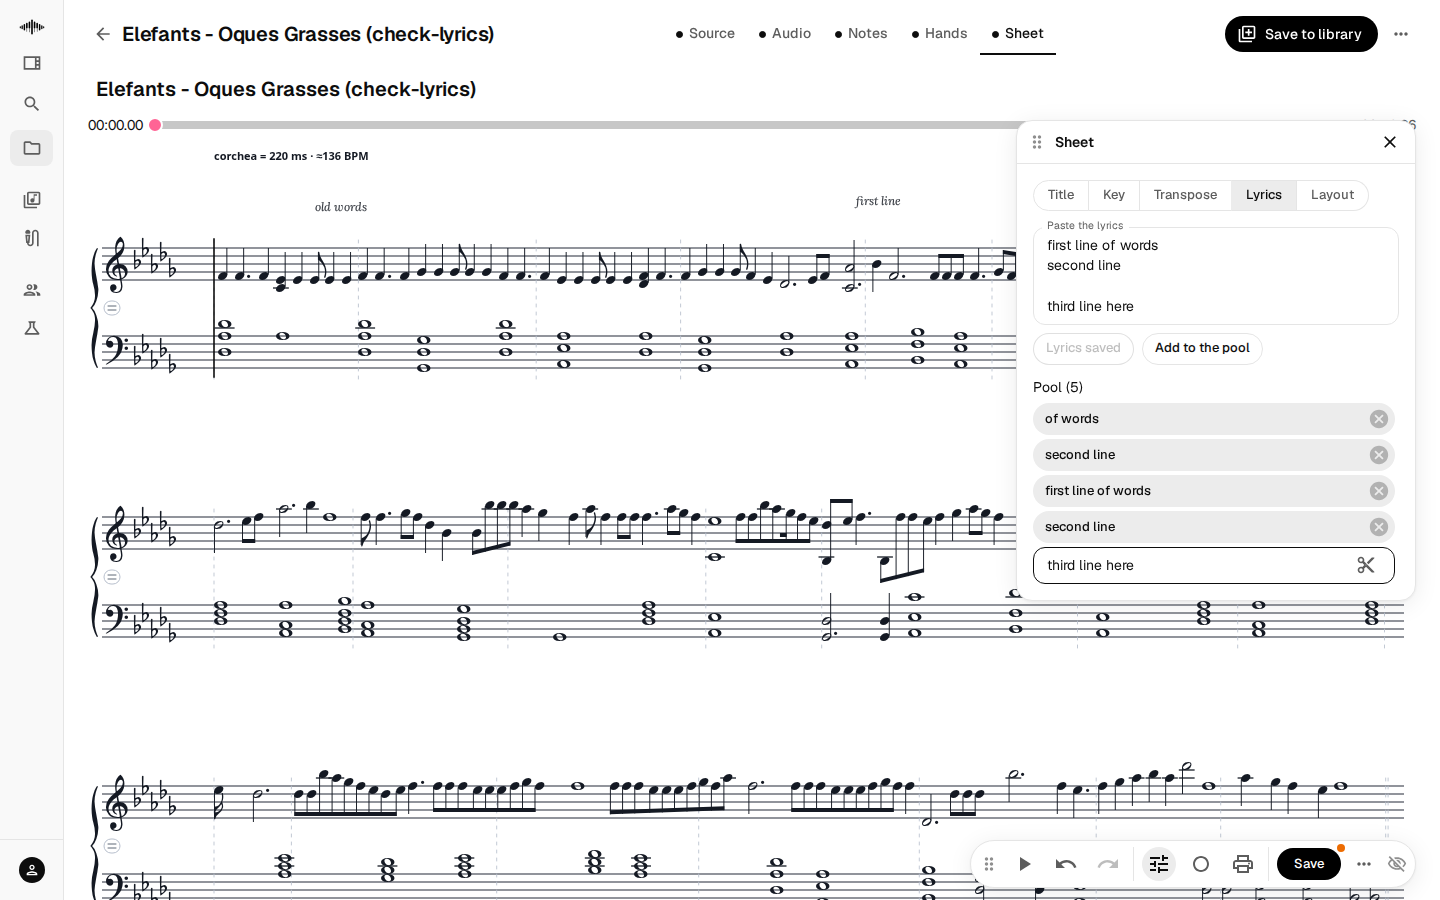
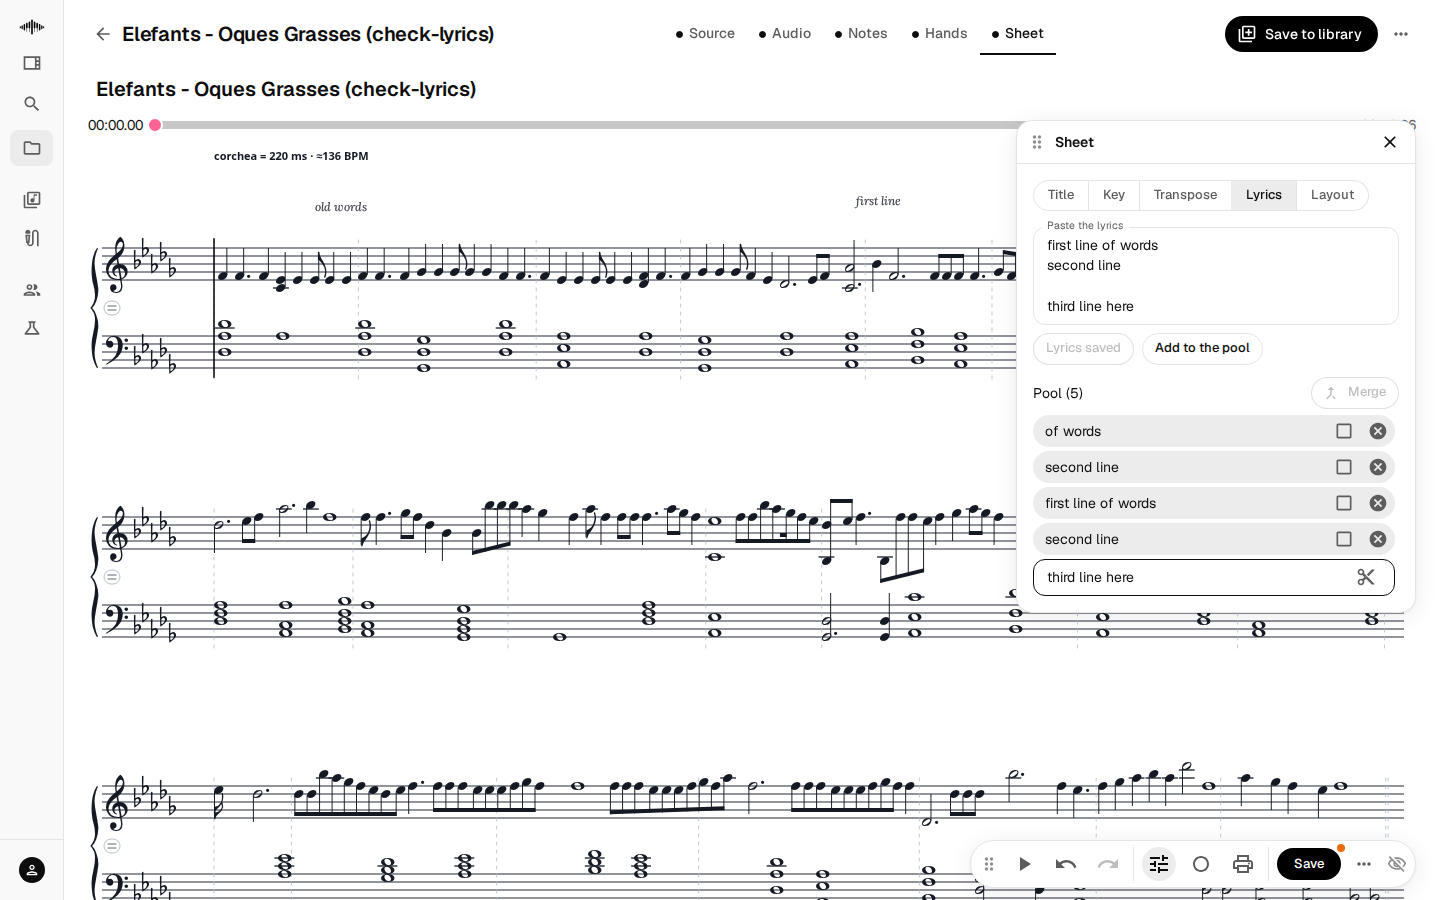
Implementation 02, Phase 7: a tick box per lyrics pool piece, consecutive picks only, Merge by the title
IconAction tooltips no longer catch the pointer, so one never covers the button beside it.

Changed region(s): [[0.7188, 0.4044, 0.9688, 0.6844]]

diff --git a/aitu-frontend/src/pages/piece/sheet/LyricsTab.tsx b/aitu-frontend/src/pages/piece/sheet/LyricsTab.tsx
@@ -1,8 +1,9 @@
 /**
  * The **Lyrics** tab of the sheet toolbox (plan section 11.5).
  *
- * Command-click (Control-click) picks pieces of the pool; **Merge** joins the picked ones, in pool
- * order, in the place of the first (the way back from a split made by mistake).
+ * The box beside a pool piece's cross picks it; only consecutive pieces can be picked, and
+ * **Merge**, beside the pool's title, joins them in the place of the first (the way back from a split
+ * made by mistake).
  * A piece of the pool is edited in place by clicking it: Enter (or the scissors at the end of the
  * field) splits it where the cursor is into two pieces in the same place and closes the field.
  *
@@ -17,12 +18,14 @@
 
 import { useRef, useState, type Dispatch, type SetStateAction } from "react";
 import Box from "@mui/material/Box";
-import Chip from "@mui/material/Chip";
 import InputAdornment from "@mui/material/InputAdornment";
 import Stack from "@mui/material/Stack";
 import TextField from "@mui/material/TextField";
 import Typography from "@mui/material/Typography";
 import ArchiveIcon from "@mui/icons-material/ArchiveOutlined";
+import CancelIcon from "@mui/icons-material/Cancel";
+import CheckBoxIcon from "@mui/icons-material/CheckBox";
+import CheckBoxOutlineBlankIcon from "@mui/icons-material/CheckBoxOutlineBlank";
 import CheckCircleIcon from "@mui/icons-material/CheckCircle";
 import CallMergeIcon from "@mui/icons-material/CallMergeOutlined";
 import ContentCutIcon from "@mui/icons-material/ContentCutOutlined";
@@ -101,13 +104,28 @@ export function LyricsTab({
     at: [],
   });
   const pickedInPool = poolPicked.forPool === pool ? poolPicked.at : [];
-  const togglePoolPick = (index: number) =>
+  /**
+   * The picked pieces are always one run of consecutive pieces, because only those can be merged:
+   * with nothing picked any piece can be; then only the piece just before or just after the run is
+   * added, and only an end of the run is let go.
+   */
+  const pickLow = pickedInPool.length > 0 ? Math.min(...pickedInPool) : -1;
+  const pickHigh = pickedInPool.length > 0 ? Math.max(...pickedInPool) : -1;
+  const canTogglePick = (index: number) =>
+    pickedInPool.length === 0 ||
+    index === pickLow ||
+    index === pickHigh ||
+    index === pickLow - 1 ||
+    index === pickHigh + 1;
+  const togglePoolPick = (index: number) => {
+    if (!canTogglePick(index)) return;
     setPoolPicked({
       forPool: pool,
       at: pickedInPool.includes(index)
         ? pickedInPool.filter((at) => at !== index)
         : [...pickedInPool, index],
     });
+  };
 
   /** Keep `text` as the piece's words: each line a piece of its own, in the same place. */
   const commitPoolEdit = (text = poolEdit?.text) => {
@@ -211,105 +229,91 @@ export function LyricsTab({
 
       {pool.length > 0 ? (
         <Box>
-          <Typography variant="body2" color="text.secondary" sx={{ mb: 0.75 }}>
-            Pool ({pool.length}
-            {placed.some(Boolean) ? `, ${placed.filter(Boolean).length} on the sheet` : ""})
-          </Typography>
-          {pickedInPool.length > 0 ? (
-            <Stack direction="row" spacing={1} sx={{ alignItems: "center", mb: 0.75 }}>
-              <PillButton
-                kind="primary"
-                size="small"
-                disabled={pickedInPool.length < 2}
-                startIcon={<CallMergeIcon fontSize="small" />}
-                onClick={() => setPool((current) => mergePoolPieces(current, pickedInPool))}
-                data-lyrics-pool-merge
-              >
-                {pickedInPool.length < 2 ? "Pick another to merge" : `Merge ${pickedInPool.length} pieces`}
-              </PillButton>
-              <PillButton
-                kind="quiet"
-                size="small"
-                onClick={() => setPoolPicked({ forPool: pool, at: [] })}
-              >
-                Cancel
-              </PillButton>
-            </Stack>
-          ) : null}
+          <Stack direction="row" spacing={1} sx={{ alignItems: "center", mb: 0.75, minHeight: 30 }}>
+            <Typography variant="body2" color="text.secondary" sx={{ flex: 1 }}>
+              Pool ({pool.length}
+              {placed.some(Boolean) ? `, ${placed.filter(Boolean).length} on the sheet` : ""})
+            </Typography>
+            {/* Joins the picked pieces; it needs two, next to each other. */}
+            <PillButton
+              kind={pickedInPool.length >= 2 ? "primary" : "secondary"}
+              size="small"
+              disabled={pickedInPool.length < 2}
+              startIcon={<CallMergeIcon fontSize="small" />}
+              title={
+                pickedInPool.length < 2
+                  ? "Tick the boxes of two or more pieces next to each other"
+                  : `Join the ${pickedInPool.length} ticked pieces into one`
+              }
+              onClick={() => setPool((current) => mergePoolPieces(current, pickedInPool))}
+              data-lyrics-pool-merge
+            >
+              Merge
+            </PillButton>
+          </Stack>
           <Stack
             spacing={0.5}
-            sx={{ maxHeight: 220, overflowY: "auto", pr: 0.5 }}
+            sx={{ maxHeight: 260, overflowY: "auto", pr: 0.5 }}
             data-lyrics-pool={pool.length}
           >
-            {pool.map((text, index) =>
-              poolEdit?.index === index ? (
-                <TextField
-                  key={`${index}:editing`}
-                  size="small"
-                  autoFocus
-                  value={poolEdit.text}
-                  inputRef={poolInput}
-                  onChange={(event) => setPoolEdit({ index, text: event.target.value })}
-                  onBlur={() => commitPoolEdit()}
-                  onKeyDown={(event) => {
-                    // Enter splits where the cursor is and closes the field; leaving the field
-                    // keeps the words as typed; Escape drops the change.
-                    if (event.key === "Escape") {
-                      event.stopPropagation();
-                      poolEditClosed.current = true;
-                      setPoolEdit(null);
-                    } else if (event.key === "Enter") {
-                      event.preventDefault();
-                      splitPoolEdit();
-                    }
-                  }}
-                  slotProps={{
-                    htmlInput: {
-                      "aria-label": "Words of this piece; Enter splits it where the cursor is",
-                      "data-lyrics-pool-edit": index,
-                    },
-                    input: {
-                      endAdornment: (
-                        <InputAdornment position="end">
-                          {/*
-                            A press here would blur the field (and keep the words unsplit) before
-                            the click; keeping the focus keeps the cursor where the split goes.
-                          */}
-                          <span onMouseDown={(event) => event.preventDefault()}>
-                            <IconAction
-                              title="Split here"
-                              shortcut="Enter"
-                              icon={<ContentCutIcon fontSize="small" />}
-                              onClick={splitPoolEdit}
-                              data-testid="lyrics-pool-split"
-                            />
-                          </span>
-                        </InputAdornment>
-                      ),
-                    },
-                  }}
-                />
-              ) : (
-                <Chip
+            {pool.map((text, index) => {
+              if (poolEdit?.index === index) {
+                return (
+                  <TextField
+                    key={`${index}:editing`}
+                    size="small"
+                    autoFocus
+                    value={poolEdit.text}
+                    inputRef={poolInput}
+                    onChange={(event) => setPoolEdit({ index, text: event.target.value })}
+                    onBlur={() => commitPoolEdit()}
+                    onKeyDown={(event) => {
+                      // Enter splits where the cursor is and closes the field; leaving the field
+                      // keeps the words as typed; Escape drops the change.
+                      if (event.key === "Escape") {
+                        event.stopPropagation();
+                        poolEditClosed.current = true;
+                        setPoolEdit(null);
+                      } else if (event.key === "Enter") {
+                        event.preventDefault();
+                        splitPoolEdit();
+                      }
+                    }}
+                    slotProps={{
+                      htmlInput: {
+                        "aria-label": "Words of this piece; Enter splits it where the cursor is",
+                        "data-lyrics-pool-edit": index,
+                      },
+                      input: {
+                        endAdornment: (
+                          <InputAdornment position="end">
+                            {/*
+                              A press here would blur the field (and keep the words unsplit)
+                              before the click; keeping the focus keeps the cursor where the split
+                              goes.
+                            */}
+                            <span onMouseDown={(event) => event.preventDefault()}>
+                              <IconAction
+                                title="Split here"
+                                shortcut="Enter"
+                                icon={<ContentCutIcon fontSize="small" />}
+                                onClick={splitPoolEdit}
+                                data-testid="lyrics-pool-split"
+                              />
+                            </span>
+                          </InputAdornment>
+                        ),
+                      },
+                    }}
+                  />
+                );
+              }
+              const ticked = pickedInPool.includes(index);
+              const free = canTogglePick(index);
+              return (
+                <Box
                   // Two pieces may have the same words, so the place is part of the key.
                   key={`${index}:${text}`}
-                  label={text}
-                  title={`${text} — ${placed[index] ? "on the sheet; drag to place it again" : "drag onto the sheet"}, or click to edit, Command-click to pick for a merge`}
-                  icon={
-                    placed[index] ? (
-                      <CheckCircleIcon fontSize="small" sx={{ color: "success.main" }} />
-                    ) : undefined
-                  }
-                  onClick={(event) => {
-                    if (event.metaKey || event.ctrlKey) {
-                      togglePoolPick(index);
-                      return;
-                    }
-                    poolEditClosed.current = false;
-                    setPoolEdit({ index, text });
-                  }}
-                  color={pickedInPool.includes(index) ? "primary" : "default"}
-                  variant={pickedInPool.includes(index) ? "outlined" : "filled"}
                   draggable
                   onDragStart={(event) => {
                     event.dataTransfer.setData(POOL_DRAG_TYPE, String(index));
@@ -317,26 +321,71 @@ export function LyricsTab({
                     onPoolDrag(index);
                   }}
                   onDragEnd={() => onPoolDrag(null)}
-                  onDelete={() => setPool((current) => current.filter((_, at) => at !== index))}
                   sx={{
-                    justifyContent: "space-between",
+                    display: "flex",
+                    alignItems: "center",
+                    gap: 0.5,
+                    minHeight: 32,
+                    pl: placed[index] ? 0.75 : 1.5,
+                    pr: 0.25,
+                    borderRadius: 4,
+                    bgcolor: ticked ? "action.selected" : "action.hover",
+                    outline: ticked ? 1 : 0,
+                    outlineColor: "text.primary",
                     cursor: "grab",
-                    borderRadius: 2,
-                    "& .MuiChip-label": {
-                      flex: 1,
-                      textAlign: "left",
-                      overflow: "hidden",
-                      textOverflow: "ellipsis",
-                    },
-                    // The tick of a piece on the sheet, green whatever colour the chip gives icons.
-                    "& .MuiChip-icon": { color: "success.main" },
                   }}
                   data-lyrics-piece={index}
                   data-placed={placed[index] ? "yes" : "no"}
-                  data-pool-picked={pickedInPool.includes(index) ? "yes" : "no"}
-                />
-              ),
-            )}
+                  data-pool-picked={ticked ? "yes" : "no"}
+                >
+                  {placed[index] ? (
+                    <CheckCircleIcon
+                      fontSize="small"
+                      sx={{ color: "success.main" }}
+                    />
+                  ) : null}
+                  <Typography
+                    variant="body2"
+                    noWrap
+                    title={`${text}: ${placed[index] ? "on the sheet; drag to place it again" : "drag onto the sheet"}, or click to edit`}
+                    onClick={() => {
+                      poolEditClosed.current = false;
+                      setPoolEdit({ index, text });
+                    }}
+                    sx={{ flex: 1, cursor: "text", py: 0.5 }}
+                  >
+                    {text}
+                  </Typography>
+                  <IconAction
+                    title={ticked ? "Untick" : "Tick to merge it with the pieces next to it"}
+                    disabledTitle={
+                      ticked
+                        ? "Untick the pieces at the ends first"
+                        : "Only a piece next to the ticked ones can be merged with them"
+                    }
+                    icon={
+                      ticked ? (
+                        <CheckBoxIcon fontSize="small" />
+                      ) : (
+                        <CheckBoxOutlineBlankIcon fontSize="small" />
+                      )
+                    }
+                    active={ticked}
+                    disabled={!free}
+                    onClick={() => togglePoolPick(index)}
+                    placement="top"
+                    data-testid={`lyrics-pool-pick-${index}`}
+                  />
+                  <IconAction
+                    title="Remove from the pool"
+                    icon={<CancelIcon fontSize="small" />}
+                    onClick={() => setPool((current) => current.filter((_, at) => at !== index))}
+                    placement="top"
+                    data-testid={`lyrics-pool-remove-${index}`}
+                  />
+                </Box>
+              );
+            })}
           </Stack>
         </Box>
       ) : null}

diff --git a/aitu-frontend/src/ui/IconAction.tsx b/aitu-frontend/src/ui/IconAction.tsx
@@ -45,7 +45,14 @@ export function IconAction({
 }: IconActionProps) {
   const label = shortcut ? `${title} (${shortcut})` : title;
   return (
-    <Tooltip title={disabled && disabledTitle ? disabledTitle : label} placement={placement} describeChild>
+    // Not interactive: a tooltip never catches the pointer, so it cannot cover the button beside its
+    // own (the tick and the cross of a lyrics piece sit side by side).
+    <Tooltip
+      title={disabled && disabledTitle ? disabledTitle : label}
+      placement={placement}
+      describeChild
+      disableInteractive
+    >
       <span style={{ display: "inline-flex" }}>
         <IconButton
           size={size}

diff --git a/context/frontend/annotations-sheet.md b/context/frontend/annotations-sheet.md
@@ -53,9 +53,11 @@ keeps every piece: one on the sheet carries a **green tick** (a line placed twic
 list shows what is in and what is not. Click a piece of the pool to edit its words in a one-line field:
 **Enter** (or the scissors at the end of the field) splits it where the cursor is into two pieces in
 the same place and closes the field, so a long line is broken in two and the order is kept; leaving
-the field keeps the words as typed; Escape drops the change. **Command-click** (Control-click)
-picks pieces of the pool, and **Merge n pieces** joins them in pool order, in the place of the
-first: the way back from a split made by mistake (one undo step, like every change of the pool).
+the field keeps the words as typed; Escape drops the change. Each piece of the pool has a **tick
+box** beside its cross: only pieces next to each other can be ticked together (with some ticked,
+only the piece just before or after them can be added, and only an end let go), and **Merge**,
+beside the pool's title, joins them in the place of the first: the way back from a split made by
+mistake (one undo step, like every change of the pool).
 
 A piece is **dragged from the pool onto the sheet**: it starts on **the frame under the pointer**
 (the column that holds it, as a click above the staves reads it; drop it on the note it starts on)

diff --git a/context/implementations/02-private-web-app/02-implementation-phase-7.md b/context/implementations/02-private-web-app/02-implementation-phase-7.md
@@ -199,6 +199,17 @@ places are held for the pool they were picked in, so any change of the pool lets
 place never names another piece. `check:lyrics` merges the two halves of the scissors split back
 (shot 10c).
 
+**Seventh review: a tick box per piece, consecutive only, Merge by the title.** Command-click was
+not discoverable. A pool piece is now a small row of its own (MUI's chip has room for one icon on
+the right): the green tick when on the sheet, the words (a click edits them), a **tick box**, and
+the cross. The ticked pieces are always one run of consecutive pieces: with some ticked, only the
+piece just before or after the run can be ticked and only an end unticked; the other boxes are
+disabled and say why in their tooltip. **Merge** is beside "Pool (n)", disabled until two are
+ticked. A defect found by `check:lyrics`: the tooltip of one button covered the button beside it,
+because MUI tooltips are interactive (they catch the pointer); `IconAction` tooltips are now
+`disableInteractive` across the app, and `check:projects`, `check:library`, `check:flow` and the
+whole toolbox script pass again.
+
 # 4. Story 7.3: keys and clefs of passages
 
 ## 4.1 Key for this passage

diff --git a/documentation/services/frontend/components.md b/documentation/services/frontend/components.md
@@ -357,7 +357,7 @@ so the same job looks the same everywhere.
 | `Sidebar` | Open (260 px, words) or closed (64 px, icons with tooltips); groups with a heading; the footer |
 | `PageHeader` | The title on the left, the primary action on the right, an optional back arrow and a middle row (the step tabs). No subtitle |
 | `Section` | A group inside a page: an optional small title and its controls, no description, no border (it replaced `SectionCard`) |
-| `IconAction` | An icon button with its tooltip, which is also its name; the shortcut after the title; a tooltip that says why when disabled |
+| `IconAction` | An icon button with its tooltip, which is also its name; the shortcut after the title; a tooltip that says why when disabled; tooltips never catch the pointer, so one never covers the button beside it |
 | `PillButton` | `primary` (black), `secondary` (white, grey border), `quiet`, `danger`; `busy` shows a spinner |
 | `Segmented` | One of 2 to 4 options, as one rounded group |
 | `ListRow`, `RowMenu` | A row: title (truncated, full on hover), status and meta in fixed columns, the `⋯` menu |
